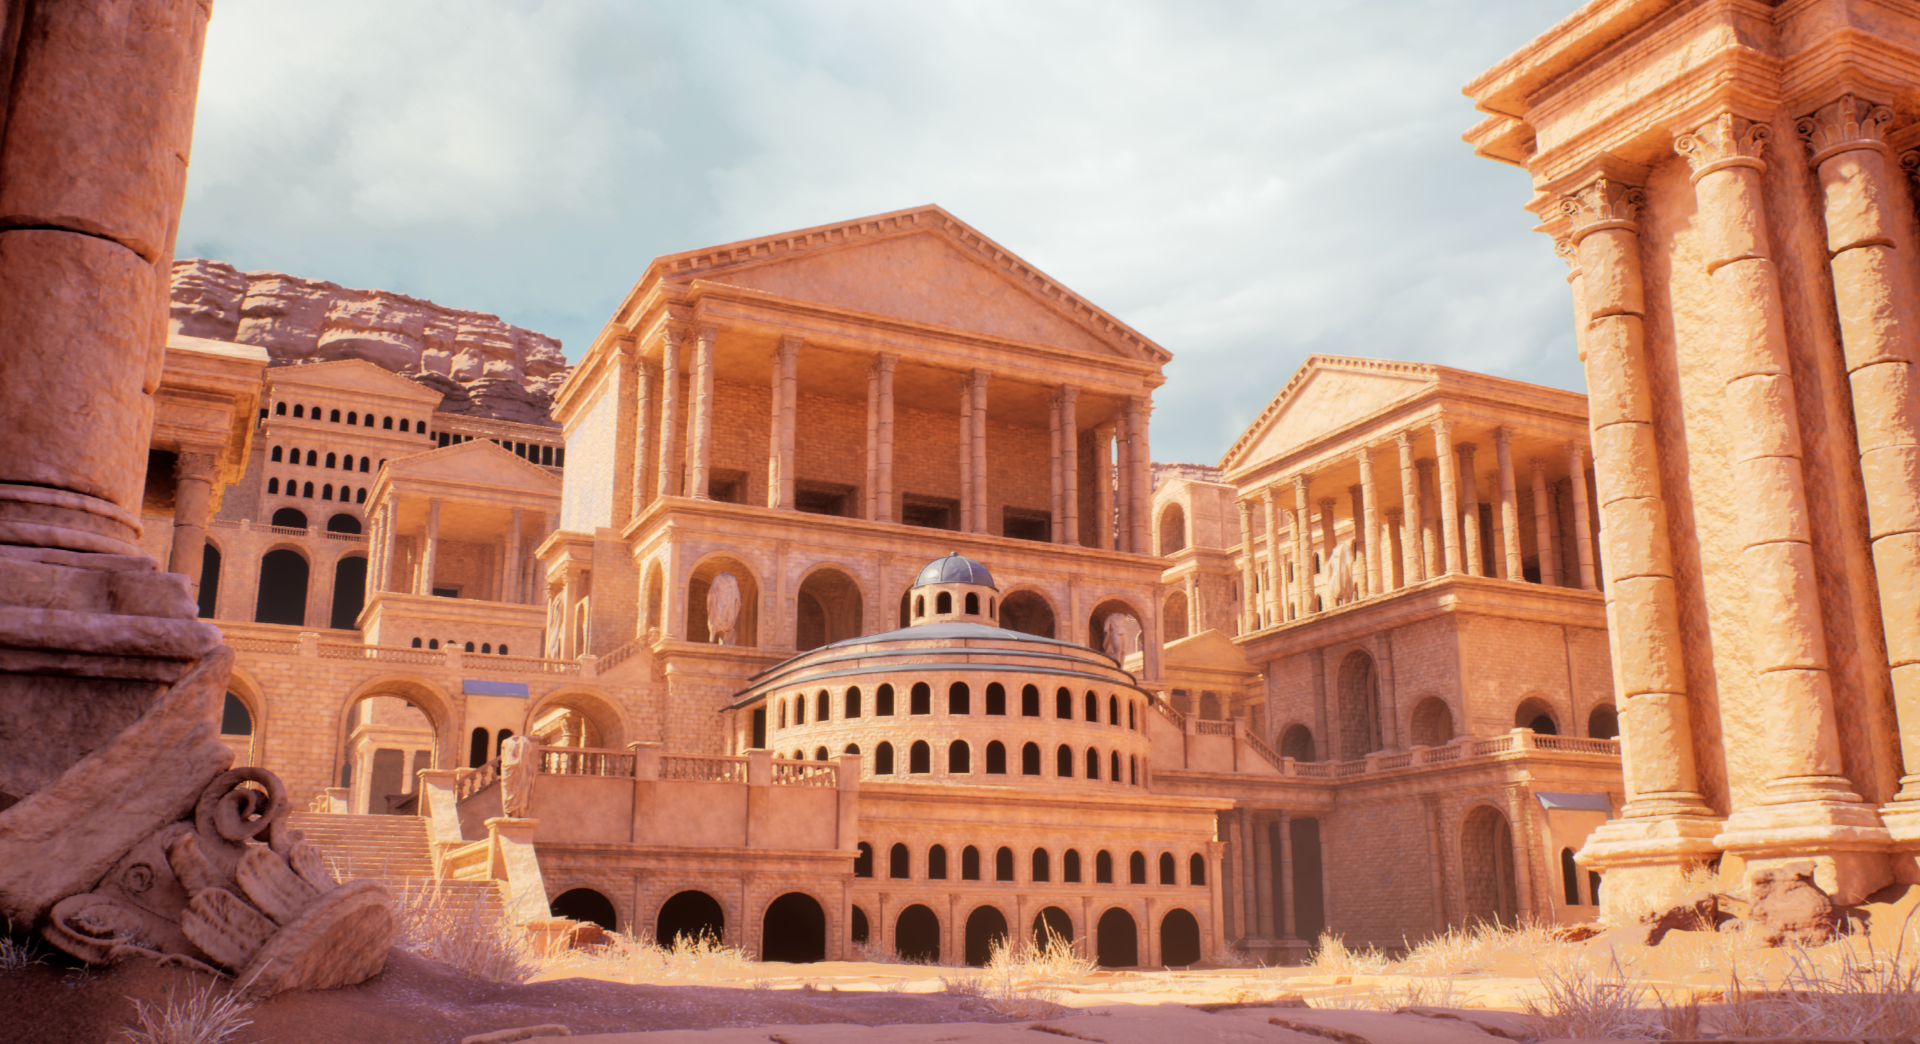
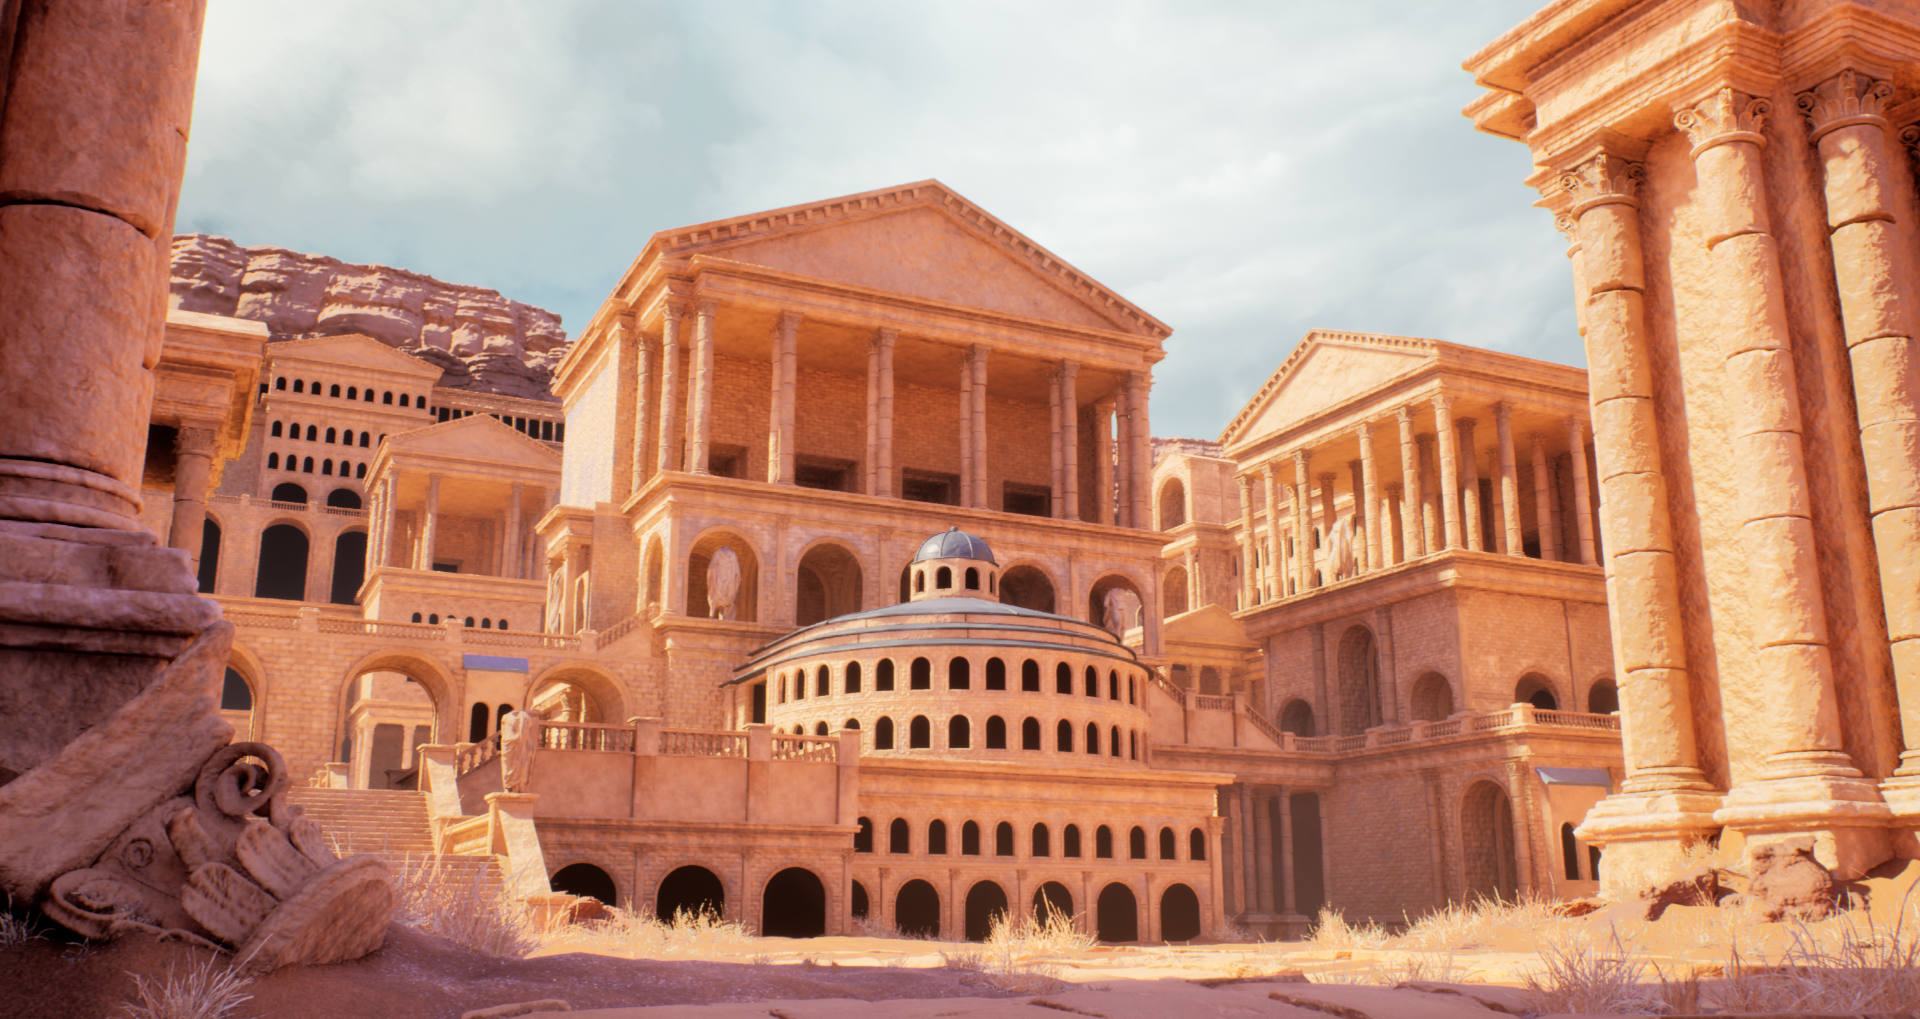
sdfds

diff --git a/public/index.html b/public/index.html
@@ -41,7 +41,7 @@
   </div>
 </div>
 
-<!-- make images 1920 x 1044 -->
+<!-- make images 1920 x 1019 -->
 <img class="featured-work" src="images/Romanesque_4K.png" alt="">
 
 <!-- Description -->
